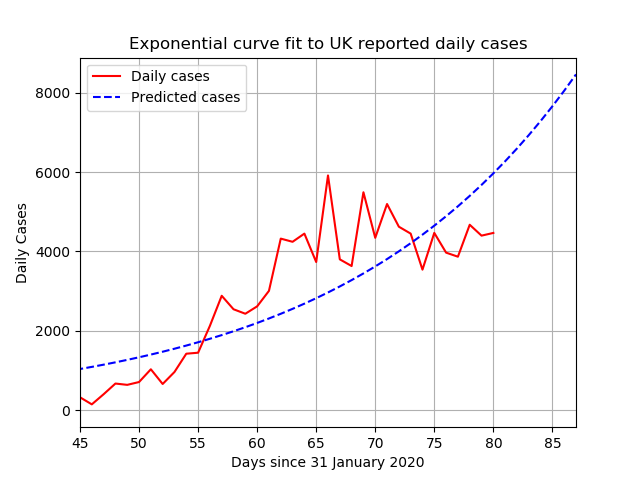
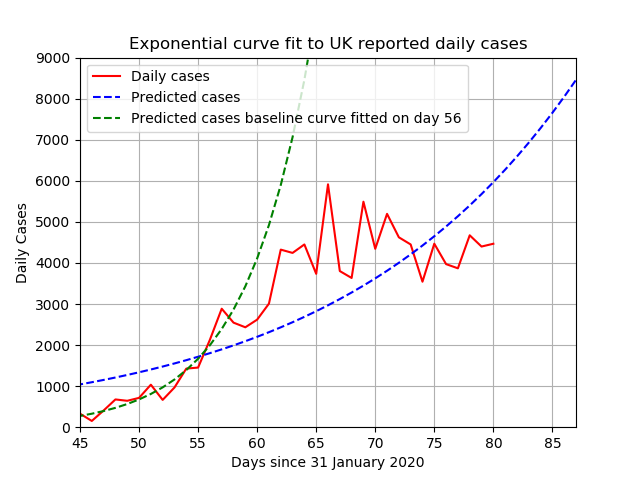
Daily run

diff --git a/src/curvefit.py b/src/curvefit.py
@@ -26,8 +26,13 @@ offset_low = 5
 offset_high = 15
 # Day to start plot at
 plt_start = 45
+# Maximum cases to show on plot
+max_cases_plt = 9000
 # Day to start doubliong time calc and plot
 doubling_time_start = 50  # Day to start doubliong time calc and plot
+# Parameters for baseline exponential new cases curve roughly a week after
+# lockdown was announced
+bl_cases_param = [0.08139621,1.19780593]
 
 # Test exponential function with coefficients as parameters
 def test(x, a, b):
@@ -42,8 +47,8 @@ def exp_fit(cases, days, predicted_days):
 
     # ans stores the new y-data according to
     # the coefficients given by curve-fit() function
-    Ans = (param[0]*param[1]**predicted_days)
-    return Ans, param, param_cov
+    ans = (param[0]*param[1]**predicted_days)
+    return ans, param, param_cov
 
 def doubling_time(cases, days):
     dt = [0.0] * len(days)
@@ -54,6 +59,7 @@ def doubling_time(cases, days):
         #Ans, param, param_cov = exp_fit(cases, caseDays, predicted_days)
         param, param_cov = curve_fit(test, iteration_days, iteration_cases)
         dt[i] = np.log(2)/np.log(param[1])
+        #print(i, param)
     return dt
 
 # Test assumption that on average a fraction of people who were diagnosed
@@ -131,11 +137,14 @@ def main():
     print("Fit curve to diagnosed cases ...")
     cases_ans, cases_param, cases_param_cov = exp_fit(daily_cases, days,
                                                         predicted_days)
+    print(bl_cases_param)
+    bl_cases_ans = (bl_cases_param[0]*bl_cases_param[1]**np.array(predicted_days))
     print("<h3>Exponential function coefficients for new cases</h3>",
           file=f_out)
     print(cases_param, file=f_out)
     print("<h4>Covariance of coefficients</h4>", file=f_out)
     print(cases_param_cov, file=f_out)
+    print("Baline parameters:", bl_cases_param)
 
     # Plot results
     plot_title = "Exponential curve fit to UK reported daily cases"
@@ -143,17 +152,35 @@ def main():
     plt.plot(days, daily_cases, '-', color ='red', label ="Daily cases")
     plt.plot(predicted_days, cases_ans, '--', color ='blue',
              label="Predicted cases")
+    plt.plot(predicted_days, bl_cases_ans, '--', color ='green',
+             label="Predicted cases baseline curve fitted on day 56")
+    plt.legend()
+    plt.grid(True)
+    plt.xlim([plt_start, len(predicted_days)])
+    plt.ylim(0, max_cases_plt)
+    plt.ylabel("Daily Cases")
+    plt.xlabel("Days since 31 January 2020")
+    plt.savefig("./out/cases.png")
+    #plt.show()
+    plt.close()
+
+    plot_title = "Exponential curve fit to UK reported daily cases"
+    plt.title(plot_title)
+    plt.plot(days, daily_cases, '-', color ='red', label ="Daily cases")
+    plt.plot(predicted_days, cases_ans, '--', color ='blue',
+             label="Predicted cases")
+    plt.plot(predicted_days, bl_cases_ans, '--', color ='green',
+             label="Predicted cases baseline curve fitted on day 56")
     plt.legend()
     plt.grid(True)
     plt.xlim([plt_start, len(predicted_days)])
     plt.ylabel("Daily Cases")
     plt.xlabel("Days since 31 January 2020")
-    plt.savefig("./out/cases.png")
-    plt.yscale('log')
     plt.title(plot_title + "\n(logarithmic y-scale)")
+    plt.yscale('log')
     plt.ylabel("Daily Cases (log)")
     plt.savefig("./out/cases-log.png")
-    #plt.show()
+    plt.show()
     plt.close()
 
     print("Calculate doubling times for new cases...")

diff --git a/README.md b/README.md
@@ -46,4 +46,4 @@ Output Details
 6 20%
 <h4>Average Error</h4>
 40.34
-<br /><br />Last updated on 2020-04-19 17:54:20.082751
+<br /><br />Last updated on 2020-04-20 10:12:05.330455

diff --git a/out/fit.md b/out/fit.md
@@ -12,4 +12,4 @@
 6 20%
 <h4>Average Error</h4>
 40.34
-<br /><br />Last updated on 2020-04-19 17:54:20.082751
+<br /><br />Last updated on 2020-04-20 10:12:05.330455
